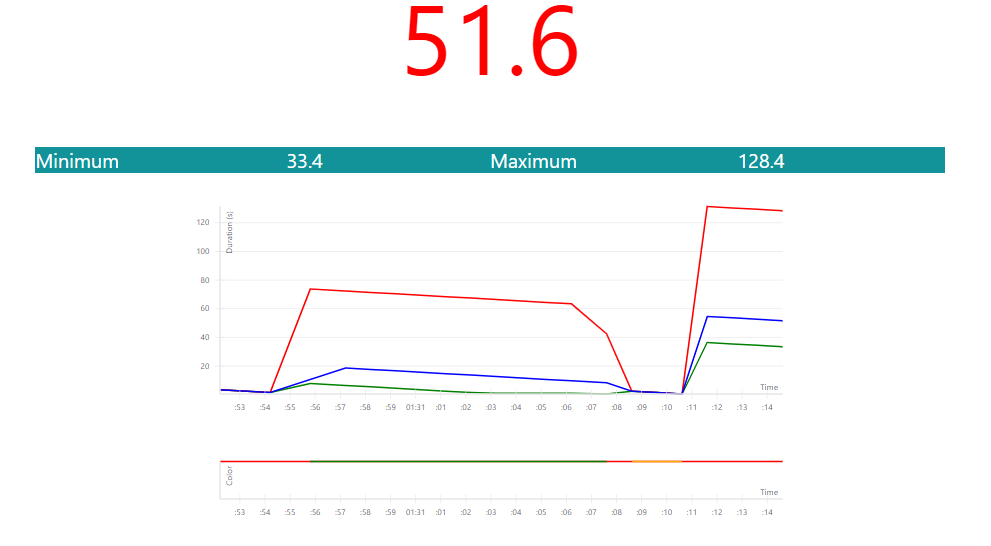
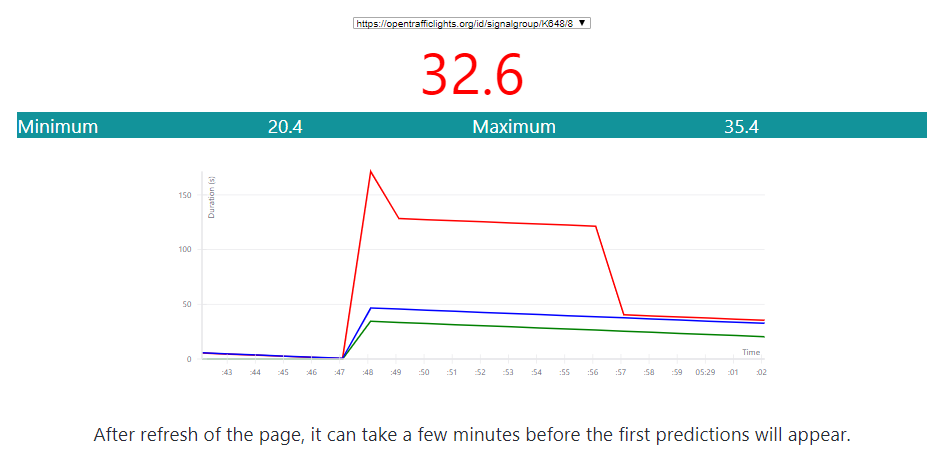
New images, some rewriting

diff --git a/content/implementation.md b/content/implementation.md
@@ -1,52 +1,44 @@
 ## Predicting the phase duration
 {:#predicting-the-phase-duration}
 
-<!-- **Discovery**
-
-**Geo mapping**
-
-**Prediction**
- -->
-To run reproducable tests for the prediction of the phase duration, a [dataset](https://github.com/kridhaen/OpenTrafficLightsData) from 8th till 25th March 2019 is maintained containing 50951 historical fragments. From these fragments, the phase and timing of signal groups can be extracted and used for generating a frequency distribution. At least for every signal group and phase combination one frequency distribution should be made. Predictions are only generated for SPAT messages where its minimum end time differs from its maximum end time. 
-In contrast to the fixed cycle times in related work [](8500307), the traffic lights controller in [Antwerp](https://docs.wegenenverkeer.be/Vademecum
+Imagine a route planner receives a live update from a traffic light that is still uncertain when it will end. For every update it receives, the phase duration of a signal phase can be predicted using a frequency distribution.  
+Instead of grouping signal phases for every fixed cycle time in related work [](8500307), we group in different time slots, because the traffic lights controller in [Antwerp](https://docs.wegenenverkeer.be/Vademecum
 s/Vademecum%5C%20Veilige%5C%20wegen%5C%20en%5C%20kruispunten/3.2.%5C%
-20Modeloplossingen%5C%20Verkeerslichten.pdf) dynamically changes the cycle time to the live situation on the intersection (crowdedness, pedestrian pushing a detector etc.). To make a prediction of the phase duration, we used three grouping strategies for creating frequency distributions. As a baseline, we used no grouping. This means that only one distribution is created for every signal phase containing all historical phase durations. Next, we created a distribution per type of day (weekend or weekday) and for every hour. The reasoning behind this is that the traffic lights controller interacts differently during the weekends and peak hours. The last strategy is more fine-grained and groups per day (monday, tuesday...) and in time slots of 20 minutes. We used three methods to select a predicted duration $$d_p$$: the median, mean and mode. To measure the prediction error we calculate the mean absolute error (MEA) as follows: 
+20Modeloplossingen%5C%20Verkeerslichten.pdf) dynamically changes the cycle time to the live situation on the intersection (crowdedness, pedestrian pushing a detector etc.). As a baseline, we used no grouping in time. This means that only one distribution is created for every signal phase containing all historical phase durations. Next, we grouped per type of day (weekend or weekday) and for every hour. The reasoning behind this is that the traffic lights controller interacts differently during the weekends and peak hours. The last strategy is more fine-grained and groups per day (monday, tuesday...) and in time slots of 20 minutes.
+To select a predicted duration $$d_p$$, we used the median, mean and mode. We calculate the prediction error with the mean absolute error (MEA) as follows: 
 $$MAE = \dfrac{1}{n}\sum_{i=1}^n|d_p(i)-d(i)|$$
 After creating the distributions, we calculated for every SPAT message $$i$$ its predicted duration $$d_p$$ and compared this with its real duration $$d$$. By taking the mean from these errors we know how many seconds on average the predicted duration deviates from the real duration. 
 
 ## Results
 {:#results}
 
-[](#mae-prediction) shows the MAE for every grouping strategy and method we applied. We see that fine-grained grouping of phases improves the MAE which acknowledges the strategy of Bodenheimer et al.[](cite:cites 7325247). Also, the median returns a better result than the mean and mode.
+To run reproducable tests, a [dataset](https://github.com/kridhaen/OpenTrafficLightsData) from 8th till 25th March 2019 is harvested from the OTL endpoint containing 50951 historical fragments. The test cases are ran using 10-fold cross validation. First, we extracted the phase and timing of signal groups and randomly divided these in 10 groups. Then predictions are made by replaying every SPAT update, who belongs in one group, using the frequency distributions made from the other 9 groups.
+[](#mae-prediction) shows the MAE for every grouping strategy and method we applied. We see that fine-grained grouping of phases improves the MAE which acknowledges related work [](cite:cites 7325247). Also, the median returns a better result for all three groupings than the mean and mode.
 
 <figure id="mae-prediction" class="table" markdown="1">
 
 | Method                   | No grouping (s) | Per type of day and every hour (s)  | Per day and every 20 minutes (s) |
 | ------------------------ |------------|------------------------------------|------------------------------|
-| Median                   | 6.8        | 5.5      							 | 5.1      					| 
-| Mean               	   | 7.0        | 5.9       						 | 5.6					        |           
-| Mode 					   | 7.6        | 6.2    							 | 6.0 					        | 
+| Median                   | <code>6.8</code>        | <code>5.5</code>     							 | <code>5.1</code>      					| 
+| Mean               	   | <code>7.0</code>        | <code>5.9</code>       						 | <code>5.6</code>					        |           
+| Mode 					   | <code>7.6</code>        | <code>6.2</code>    							 | <code>6.0</code>				        | 
 
 <figcaption markdown="block">
 Comparison of the mean absolute error (MAE) for different grouping strategies and methods for choosing the prediction. Using the median and fine-grained grouping (per day and time buckets of 20 minutes) gives the lowest MAE of 5.1 seconds.
 </figcaption>
 </figure>
 
-We go a step further by also considering the time that is left before the phase of a SPAT message $$i$$ changes to the next phase. The hypothesis is that in the beginning of a phase the prediction error will be higher then on the end of the phase. [](#time-till-transition) confirms that the prediction error (MAE) is high when the time till phase change is high and lowers when reaching the end of the phase. This is done by grouping per day and every 20 minutes (the third grouping strategy) and by taking the median for the prediction phase. To explain why these results are much higher then the average MAE 5.1s in [](#mae-prediction) is that there are much more phases that take less than 50 seconds which weighs in more on the average MAE.
-
+We go one step further by also considering the time that is left before the phase of a SPAT message $$i$$ makes a transition to the next phase. We hypothesize that in the beginning of a phase the prediction error will be higher then on the end of the phase.
+Signal phases are grouped per day and every 20 minutes (the third grouping strategy) and the median is used for the prediction.
+ [](#time-till-transition) shows for the [signal phase](https://w3id.org/opentrafficlights/thesauri/signalphase/3) with label "Stop and remain" how its prediction error (MAE) compares with the time that a phase took. We see can three findings: first, the prediction error grows linear for phase durations above 62 seconds. This is because very long phase occur less, thus using the median for outliers is not a good fit. Secondly, we see a more flat line for phase durations between 9 and 65 seconds with a MAE around 10 seconds. For the bulk of phases, which are between this interval, the median gives a better indication than for outliers. Finally, between 0 and 9 seconds, the prediction error is zero, because the minimum duration equals the maximum duration.
 
 <figure id="time-till-transition">
 <center>
-<img style="height: auto; width: 50%" src="img/time-till-transition.PNG">
+<img style="height: auto; width: 50%" src="img/time-till-transition-2.svg">
 </center>
 <figcaption markdown="block">
-The mean absolute error (MAE) lowers when the end of phase nearing. Predictions are created by using the median and frequency distributions are created by grouping phases per day and every 20 minutes. This is calculated for signal phases that correspond with a red color on a traffic light.
+The mean absolute error (MAE) lowers when the end of phase nearing. Predictions are created by selecting the median and using frequency distributions that group phases per day and every 20 minutes. This is calculated from [signal phase](https://w3id.org/opentrafficlights/thesauri/signalphase/3) with label "Stop and remain" which corresponds with a red color on a traffic light.
 </figcaption>
 </figure>
 
-<!--  With a frequency distribution it is also possible to make a prediction based on a fixed probability. --> 
-A cumulative frequency distribution can also be used for predicting with intervals instead of one predicted duration [](cite:cites 6965983). 90% of the phase durations are inside the [5%, 95%] interval, so it is 90% certain that the phase will take place between that interval.
-
-In next section we demonstrate a HTTP client that generates a prediction for the phase duration on-the-fly. 
-
-<!-- Met vaste zekerheid routeren (bv. 90% zekerheid -> groter deel van de faseduur routeren ) -->
+In next section, we demonstrate a HTTP client that generates a prediction for a live traffic light on-the-fly.

diff --git a/content/sota.md b/content/sota.md
@@ -3,8 +3,5 @@
 
 The [Open Traffic Lights](https://opentrafficlights.org)(OTL) [](cite:cites vandevyvere_mepdaw_2019) project proposes a strategy for publishing traffic lights data in a semantical and technical interoperable way. First, with the OTL ontology, global identifiers (URIs) are defined for a subset of the terms of the currently used datastandards SPAT and MAP. SPAT defines the signal phase and timing of a signal group to which a traffic light belongs. MAP defines the geometry of the departure and arrival lanes and how these connections relate to a signal group. By agreeing on the semantics of the terms and applying RDF for describing facts, data publishers are not limited to one datastructure in JSON format. Secondly, OTL defines how the traffic lights data can be published as time sorted [Linked Data Fragments](https://brechtvdv.github.io/Article-Open-Traffic-Lights/#specification). This allows HTTP clients to fetch not only the latest value, but also the historic values through pagination links. In [](#implementation) we will use this knowledge to generate predictions.
 
-Predicting the phase duration has been done in related work [](cite:cites 8500307),[](cite:cites 7325247). In their experiments, tests have been run on traffic lights data with a fixed cycle time. This means that a combination of signal phases occurs repeatedly between fixed time intervals. The intersection in Antwerp, from which we will use the data, has a [variable cycle time](http://docs.wegenenverkeer.be/Publicaties/Brochure%20Verkeerslichtengeregelde%20kruispunten.pdf) between a minimum and maximum time. Depending on the situation of the intersection, signal phases can be extended or shortened which influences its cycle time. However this adds an extra complexity, the ideas of the related work can still be applied. [Ibrahim et al.](cite:cites 8500307) proposes a frequency distribution of the amount of seconds a signal phase takes for every signal phase and fixed cycle time, because an intersection can have  a different fixed cycle time for example during working days, than in the weekend. 
-With the frequency distribution, we can calculate the probability $$a$$ that the real phase duration $$d$$ takes longer than the predicted duration $$d_p$$ ($$a = P(d>d_p))$$). By taking the cumulative frequency of durations before the predicted duration $$F(d) = P(d≤d_p)$$, then we can calculate $$a$$ with the formula: $$a = 1-F(d)$$.
-When predicting during a phase, a new distribution frequency needs to be generated keeping only the phase durations that are bigger than the phase duration at that time.
-Bodenheimer et al. [](cite:cites 7325247) proposes to create seperate frequency distributions in time slots of 15 minutes and for working and vacation days.
-Another method is predicting with a fixed probability [](cite:cites 6965983). The idea is that historical values are a good reflection of future phases, so future phases will correspond with the frequency distribution. A prediction with a certain correctness can be done as follows: it is 90% sure that a phase will be longer than the first 10% of the cumulative frequency distribution and 90% sure that it will take less than the last 10%.
+Predicting the phase duration has been done in related work [](cite:cites 8500307, 7325247). In their experiments, tests have been run on traffic lights data with a fixed cycle time. This means that a combination of signal phases occurs repeatedly between fixed time intervals. The intersection in Antwerp, from which we will use the data, has a [variable cycle time](http://docs.wegenenverkeer.be/Publicaties/Brochure%20Verkeerslichtengeregelde%20kruispunten.pdf) between a minimum and maximum time. Depending on the situation of the intersection, signal phases can be extended or shortened which influences its cycle time. However this adds an extra complexity, the ideas of the related work can still be applied. [Ibrahim et al.](cite:cites 8500307) proposes a frequency distribution for the phase duration for every signal phase and fixed cycle time, because an intersection can have a different fixed cycle time for example during working days, than in the weekend. Bodenheimer et al. [](cite:cites 7325247) proposes to do this for time slots of 15 minutes and for the type of day (working or vacation day).
+With the frequency distribution, we can calculate the probability $$a$$ that the real phase duration $$d$$ takes longer than the predicted duration $$d_p$$ ($$a = P(d>d_p))$$). By taking the cumulative frequency of durations before the predicted duration $$F(d) = P(d≤d_p)$$, then we can calculate $$a$$ with the formula: $$a = 1-F(d)$$. This allows predicting with a fixed probability [](cite:cites 6965983). The idea is that historical values are a good reflection of future phases, so future phases will correspond with the frequency distribution. For example: it is 90% sure that a phase will be longer than the first 10% of the cumulative frequency distribution and 90% sure that it will take less than the last 10%.

diff --git a/content/introduction.md b/content/introduction.md
@@ -1,10 +1,10 @@
+<div class="printonly">This is a print-version of an article first written for the Web. The Web-version is available at <a href="https://brechtvdv.github.io/Article-Predicting-traffic-light-phases">https://brechtvdv.github.io/Article-Predicting-traffic-light-phases</a>.</div>
+
 ## Introduction
 {:#introduction}
 
-During 2018, the city of Antwerp has invested in connecting the traffic lights controller of one intersection to the Internet. With the Open Traffic Lights project[](cite:cites vandevyvere_mepdaw_2019), these data have been published on the Web as Linked Open Data setting the foundation for reuse. Typically, the phase and timing of a traffic light is used for [Green Light Optimal Speed Advisory (GLOSA)](cite:cites 6799846) systems to save fuel through speed advice or count-down timer [](cite:cites dynamiceco). While GLOSA systems focus on the event of approaching an intersection, routeplanners have a more global view of the journey where fuel savings is only one parameter. 
+During 2018, the city of Antwerp has invested in connecting the traffic lights controller of one intersection to the Internet. With the Open Traffic Lights project[](cite:cites vandevyvere_mepdaw_2019), these data have been published on the Web as Linked Open Data setting the foundation for reuse. Typically, the phase and timing of a traffic light is used for [Green Light Optimal Speed Advisory (GLOSA)](cite:cites 6799846) systems to save fuel through speed advice or count-down timer [](cite:cites dynamiceco). While GLOSA systems focus on the event of approaching an intersection, route planners have a more global view of the journey where fuel savings is only one parameter. 
 Implementing live features like these on the server-side requires a much more complex technology stack than traditional origin-destination route planning queries requiring permanent tracking of the user.
-Recently, work has been done on generic routeplanning clients for [public transport](cite:cites colpaert_icwe_2017) and [road networks](colpaert_eswc_demo_2019) performing the route planning algorithm on the client-side. Extending such a client with the consumption of traffic lights data introduces challenges, such as forecasting the phase duration[](cite:cites spat_amsterdam). 
-
-serverless route planning
+Recently, work has been done on serverless route planning for [public transport](cite:cites colpaert_icwe_2017) and [road networks](colpaert_eswc_demo_2019) performing the route planning algorithm on the client-side. Extending such a client with the consumption of traffic lights data introduces challenges, such as forecasting the phase duration[](cite:cites spat_amsterdam), discovering and integrating traffic lights into the road network of the route planner. Currently, a traffic light update contains an interval when the phase will end. This is problematic for route planners, because they need to know in which the phase will be and for how long when the driver is approaching the intersection. In this article, we investigate how the duration of a live signal phase can be predicted, demonstrate this with the live data from an intersection in Antwerp and discuss how predictions can play a role into the eco-system of serverless route planning interfaces.  
 
 <!-- In this paper, we describe how routeplanners can discover, integrate and predict traffic lights data. First, we describe in related work how traffic lights data are structured and how its phase duration can be predicted. Next, we describe how routeplanners can discover and integrate traffic lights data and how predictions can be made from the Open Traffic Lights data. Then we demonstrate with a  proof-of-concept. -->

diff --git a/content/abstract.md b/content/abstract.md
@@ -1,18 +1,5 @@
 ## Abstract
-Nowadays, dynamic traffic lights with a variable phase duration
-are widely used. This means that the end time of the phase is unknown,
-thus smart mobility applications such as route planners have to predict the
-phase duration. In this paper, a short-term prediction for variable phase
-durations is made from frequency distributions created using SPaT messages
-published with Linked Data Fragments. We grouped the observed
-historical phase durations in frequency distributions depending on the time
-slot of the observations and made predictions by calculating the median of
-the distribution. Using the described methods on an intersection in the city
-of Antwerp, an average prediction error of 5,1 seconds is achieved. By using
-frequency distributions, a prediction with a fixed confidence can be made.
-For example, on average a prediction can be made for 60% of the phase
-duration with a fixed confidence of 90%. Although a frequency distribution
-gives smart mobility applications a better understanding how long a
-phase duration will take, historical data needs to be client-side processed in
-advance. In future work, frequency distributions could be published with
-Linked Data Fragments.
+Traffic lights with a variable phase duration are widely used to optimize traffic flows. Although the minimum and maximum duration of a phase is already published, route planners need a predicted duration with a certain confidence for routing decisions.
+We tested for a live Open traffic lights dataset of Antwerp (i) how frequency distributions of phase durations can be used for predicting and (ii) how this could work client-side by creating frequency distributions on-the-fly.
+A mean average error (MAE) of 5.1 seconds is observed by grouping the phase durations in fine-grained time slots and using the median to select a predicted phase duration. Also we see that the MAE is flattening around 10s for phase durations below 62s and starts growing linear after that. 
+With our approach, route planners can have a good indication of the current phase duration for the bulk of phases. In future work, we will look into how client-side route planners can integrate traffic lights data into their road network graph and how other Open Datasets can be reused to detect the more exceptionally longer phase durations.

diff --git a/content/conclusion.md b/content/conclusion.md
@@ -1,18 +1,7 @@
 ## Discussion
 {:#discussion}
 
-Volledige server-side berekenen van likelytime en confidence
-Future work, 
-likely time toevoegen aan ontology
-frequency distributions publiceren als fragmenten
+In this paper we demonstrated how frequency distributions can be used for predicting the phase duration of a traffic light. Different approaches are possible to create these distributions over the Web: on the one hand, a client can do all the work by downloading fragments from the [OTL API](https://lodi.ilabt.imec.be/observer/rawdata/latest) and building the distributions client-side. This requires high bandwidth consumption and processing power, but allows new ways of grouping signal phases by querying other Open Datasets (wheather data, crowdness detectors at the intersection...). On the other hand, the server can internally maintain frequency distributions and only publish the likely time and confidence in SPAT messages. This gives no flexibility for the client, for example to predict an interval instead of one phase duration. A third option is to publish frequency distributions as metadata of a signal group. This introduces a new trade-off between server and client effort: frequency distributions can be exposed as cacheable fragments supporting serverless route planning interfaces, while clients can still mix these with other datasets and setting custom prediction preferences.  
 
-2 routeplanning user preferences:
-- a fixed probability
-- maximum MAE (op basis van de grafiek)
+Future work should be done how frequency distributions or in general summaries of sensor data can be published with RDF. Also, we need to investigate how a client-side route planner (cfr. [Planner.js](https://planner.js.org/)) can integrate this data and how this can influence the user perceived journey experience.
 
-<!-- First steps are done in creating a OpenLR implementation for mapping lanes to road network.
-We want to extend the OTL ontology for annotating signal groups for specific road user groups. 
-Filtering becomes possible, more specific route planners for bicyclists, pedestrians... -->
-
-Optimization of grouping signal phases:
-Grouping signal phases per day and minute intervals lowers the prediction error. Other datasets can be used (weather, events, traffic counters...) to make better groupings.

diff --git a/content/demonstrator.md b/content/demonstrator.md
@@ -1,16 +1,21 @@
 ## Demonstrator
 {:#demonstrator}
 
-This application demonstrates a Web client that predicts the phase duration of a live traffic light in [Antwerp](https://www.openstreetmap.org/#map=19/51.21205/4.39717). This client continuously fetches the latest data fragment from the OTL API and constructs frequency distributions for every signal group, signal phase, day and time slots of 20 minutes. The median is calculated for the predicted phase duration at the start of every signal phase.
+This application demonstrates a Web client that predicts the phase duration of a live traffic light in [Antwerp](https://www.openstreetmap.org/#map=19/51.21205/4.39717). The green line on the chart shows minimum duration in seconds of the phase, like wise the red line shows the maximum duration. A blue line will show the predicted duration, but the client first needs to construct frequency distributions by continuously fetching the latest data from the [OTL API](https://lodi.ilabt.imec.be/observer/rawdata/latest). Frequency distributions are made with the third grouping strategy, for every signal group, signal phase, day and time slots of 20 minutes. The median is calculated at the start of a new phase for the predicted phase.
+
+This vizualization gives some insights:
+
+* The predicted phase duration increases the insight how long the phase will actual take, especially when the minimum and maximum duration differ tens of seconds.
+* When the minimum duration aligns with the maximum duration, the blue line gets corrected with a few seconds. This behavior corresponds with the average results from [](#mae-prediction).
 
 The source code can be found as a Codepen at [https://codepen.io/kridhaen/pen/VJrezO/](https://codepen.io/kridhaen/pen/VJrezO/).
 
 <figure id="codepen">
 <center>
-<img src="img/demo.PNG">
+<img src="img/demo-2.png">
 </center>
 <figcaption markdown="block">
-TODO
+Webapplication that shows the minimum (green), maximum (red) and predicted (blue) phase duration (seconds) of a live traffic light in Antwerp. The predicted phase duration is calculated by creating a frequency distribution on-the-fly from the live data.
 </figcaption>
 </figure>
 
